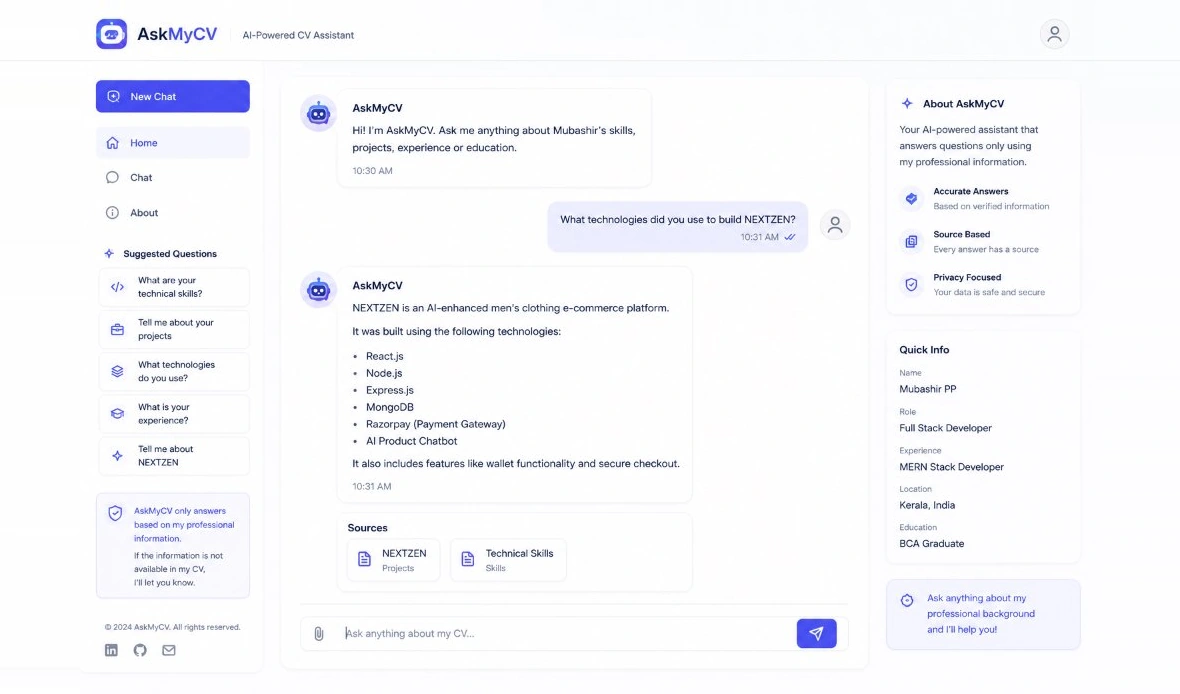
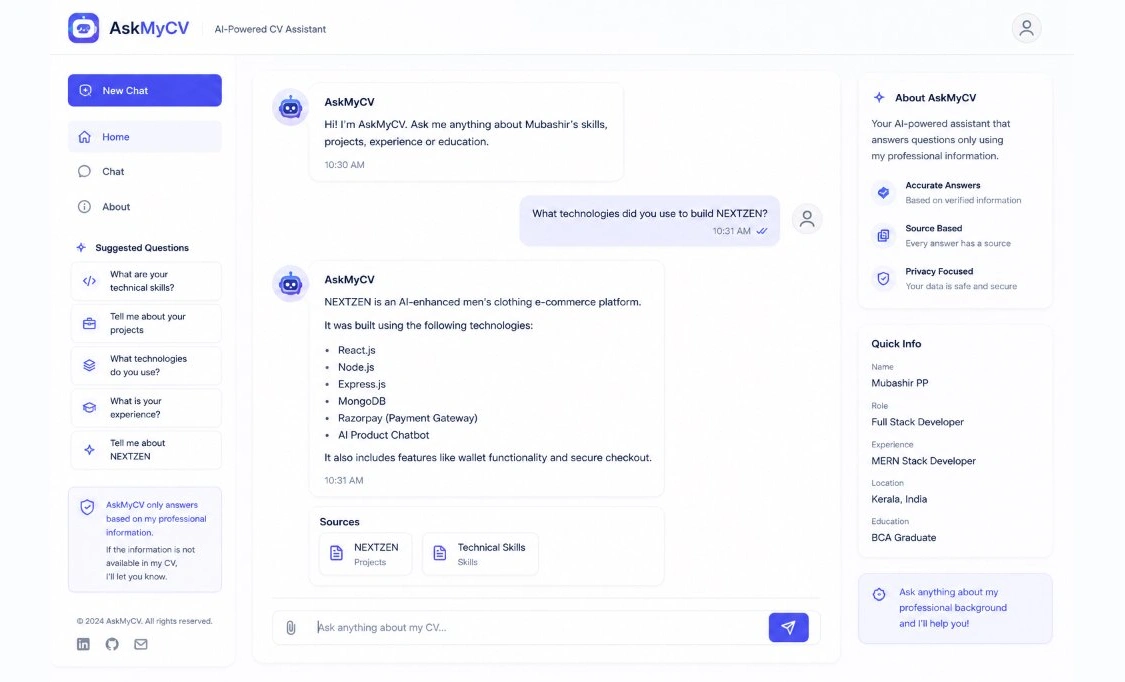
feat: initialize portfolio v2 with components, assets, and layout styling

diff --git a/src/components/ScrollyCanvas.tsx b/src/components/ScrollyCanvas.tsx
@@ -9,9 +9,18 @@ interface ScrollyCanvasProps {
 
 export default function ScrollyCanvas({ heroRef }: ScrollyCanvasProps) {
   const canvasRef = useRef<HTMLCanvasElement>(null);
+  const ctxRef = useRef<CanvasRenderingContext2D | null>(null);
   const imagesRef = useRef<(HTMLImageElement | null)[]>([]);
   const lastDrawnFrameRef = useRef<number>(-1);
   const rafIdRef = useRef<number | null>(null);
+  const layoutRef = useRef({
+    offsetX: 0,
+    offsetY: 0,
+    drawWidth: 0,
+    drawHeight: 0,
+    canvasWidth: 0,
+    canvasHeight: 0,
+  });
   const totalFrames = 120;
 
   // Use the shared heroRef for scroll target
@@ -20,23 +29,21 @@ export default function ScrollyCanvas({ heroRef }: ScrollyCanvasProps) {
     offset: ["start start", "end end"],
   });
 
-  // Physics-based spring smoothing for liquid-smooth canvas scrubbing
+  // Responsive spring synchronized with Lenis inertia for fluid, lag-free scrubbing
   const smoothProgress = useSpring(scrollYProgress, {
-    stiffness: 100,
+    stiffness: 180,
     damping: 28,
+    mass: 0.2,
     restDelta: 0.0001,
   });
 
   const pad = (num: number) => String(num).padStart(3, "0");
 
-  // Helper to draw a specific frame on canvas with object-fit: cover logic
+  // Fast draw using cached context and precomputed cover dimensions
   const drawFrame = (index: number) => {
-    const canvas = canvasRef.current;
-    if (!canvas) return;
-    const ctx = canvas.getContext("2d");
+    const ctx = ctxRef.current;
     if (!ctx) return;
 
-    // Get image or closest loaded fallback to prevent any black/empty frames
     let img = imagesRef.current[index];
     if (!img || !img.complete) {
       for (let offset = 1; offset < totalFrames; offset++) {
@@ -54,46 +61,37 @@ export default function ScrollyCanvas({ heroRef }: ScrollyCanvasProps) {
       if (!img || !img.complete) return;
     }
 
-    const canvasWidth = canvas.width;
-    const canvasHeight = canvas.height;
+    const { offsetX, offsetY, drawWidth, drawHeight, canvasWidth, canvasHeight } = layoutRef.current;
     if (!canvasWidth || !canvasHeight) return;
-
-    const imgWidth = img.naturalWidth || img.width;
-    const imgHeight = img.naturalHeight || img.height;
-    if (!imgWidth || !imgHeight) return;
-
-    const imgRatio = imgWidth / imgHeight;
-    const canvasRatio = canvasWidth / canvasHeight;
-
-    let drawWidth = canvasWidth;
-    let drawHeight = canvasHeight;
-    let offsetX = 0;
-    let offsetY = 0;
-
-    if (canvasRatio > imgRatio) {
-      drawHeight = canvasWidth / imgRatio;
-      offsetY = (canvasHeight - drawHeight) / 2;
-    } else {
-      drawWidth = canvasHeight * imgRatio;
-      offsetX = (canvasWidth - drawWidth) / 2;
-    }
 
     ctx.clearRect(0, 0, canvasWidth, canvasHeight);
     ctx.drawImage(img, offsetX, offsetY, drawWidth, drawHeight);
   };
 
-  // Preload frames with immediate priority on the first 10 frames
+  // Preload frames with background decode to eliminate main-thread decoding jank
   useEffect(() => {
     let active = true;
     const loadedImages: (HTMLImageElement | null)[] = new Array(totalFrames).fill(null);
 
-    const handleImageLoad = (index: number) => {
+    const handleImageLoad = (img: HTMLImageElement, index: number) => {
       if (!active) return;
-      const currentProgress = smoothProgress.get();
-      const currentFrame = Math.max(0, Math.min(totalFrames - 1, Math.round(currentProgress * (totalFrames - 1))));
-      if (index === currentFrame || lastDrawnFrameRef.current === -1) {
-        lastDrawnFrameRef.current = index;
-        drawFrame(index);
+      if (img.decode) {
+        img.decode().catch(() => {}).then(() => {
+          if (!active) return;
+          const currentProgress = smoothProgress.get();
+          const currentFrame = Math.max(0, Math.min(totalFrames - 1, Math.round(currentProgress * (totalFrames - 1))));
+          if (index === currentFrame || lastDrawnFrameRef.current === -1) {
+            lastDrawnFrameRef.current = index;
+            drawFrame(index);
+          }
+        });
+      } else {
+        const currentProgress = smoothProgress.get();
+        const currentFrame = Math.max(0, Math.min(totalFrames - 1, Math.round(currentProgress * (totalFrames - 1))));
+        if (index === currentFrame || lastDrawnFrameRef.current === -1) {
+          lastDrawnFrameRef.current = index;
+          drawFrame(index);
+        }
       }
     };
 
@@ -102,7 +100,7 @@ export default function ScrollyCanvas({ heroRef }: ScrollyCanvasProps) {
     frameZero.src = `/sequence/frame_${pad(0)}_delay-0.066s.webp`;
     frameZero.onload = () => {
       loadedImages[0] = frameZero;
-      handleImageLoad(0);
+      handleImageLoad(frameZero, 0);
     };
     loadedImages[0] = frameZero;
 
@@ -110,7 +108,7 @@ export default function ScrollyCanvas({ heroRef }: ScrollyCanvasProps) {
     for (let i = 1; i < totalFrames; i++) {
       const img = new Image();
       img.src = `/sequence/frame_${pad(i)}_delay-0.066s.webp`;
-      img.onload = () => handleImageLoad(i);
+      img.onload = () => handleImageLoad(img, i);
       loadedImages[i] = img;
     }
 
@@ -121,16 +119,49 @@ export default function ScrollyCanvas({ heroRef }: ScrollyCanvasProps) {
     };
   }, [smoothProgress]);
 
-  // Set up resize handler and initial canvas rendering
+  // Set up resize handler, caching context and cover layout geometry
   useEffect(() => {
     const canvas = canvasRef.current;
     if (!canvas) return;
 
+    ctxRef.current = canvas.getContext("2d", { alpha: true });
+
     const handleResize = () => {
       const rect = canvas.getBoundingClientRect();
-      const dpr = Math.min(window.devicePixelRatio || 1, 2); // Cap at 2 to preserve GPU performance
-      canvas.width = rect.width * dpr;
-      canvas.height = rect.height * dpr;
+      // Cap DPR to 1.5 to match 1080p source sequence resolution and save >50% GPU fill rate
+      const dpr = Math.min(window.devicePixelRatio || 1, 1.5);
+      const canvasWidth = Math.round(rect.width * dpr);
+      const canvasHeight = Math.round(rect.height * dpr);
+
+      canvas.width = canvasWidth;
+      canvas.height = canvasHeight;
+
+      const imgWidth = 1920;
+      const imgHeight = 1080;
+      const imgRatio = imgWidth / imgHeight;
+      const canvasRatio = canvasWidth / canvasHeight;
+
+      let drawWidth = canvasWidth;
+      let drawHeight = canvasHeight;
+      let offsetX = 0;
+      let offsetY = 0;
+
+      if (canvasRatio > imgRatio) {
+        drawHeight = canvasWidth / imgRatio;
+        offsetY = (canvasHeight - drawHeight) / 2;
+      } else {
+        drawWidth = canvasHeight * imgRatio;
+        offsetX = (canvasWidth - drawWidth) / 2;
+      }
+
+      layoutRef.current = {
+        offsetX,
+        offsetY,
+        drawWidth,
+        drawHeight,
+        canvasWidth,
+        canvasHeight,
+      };
 
       const currentProgress = smoothProgress.get();
       const frameIndex = Math.max(0, Math.min(totalFrames - 1, Math.round(currentProgress * (totalFrames - 1))));

diff --git a/src/components/MeshText.tsx b/src/components/MeshText.tsx
@@ -479,6 +479,10 @@ function __OriginkitBase_MeshText(props: any) {
             }
             cursor.x = x
             cursor.y = y
+            if (!animating && !cancelled) {
+                animating = true
+                rafId = requestAnimationFrame(tick)
+            }
         }
         const onLeave = () => {
             cursor.inside = false
@@ -491,8 +495,11 @@ function __OriginkitBase_MeshText(props: any) {
         document.documentElement.addEventListener("pointerleave", onLeave)
 
         // ── Animation loop ──────────────────────────────────────────────
+        let animating = true
         let rafId = 0
         const tick = () => {
+            if (cancelled) return
+
             cursor.vx = cursor.x - cursor.px
             cursor.vy = cursor.y - cursor.py
             const vmag = Math.hypot(cursor.vx, cursor.vy)
@@ -502,6 +509,8 @@ function __OriginkitBase_MeshText(props: any) {
             }
             cursor.px = cursor.x
             cursor.py = cursor.y
+
+            let maxMotion = Math.hypot(cursor.vx, cursor.vy)
 
             // Drag only — mesh vertices pulled along the cursor's motion.
             for (let i = 0; i < vertCount; i++) {
@@ -540,6 +549,9 @@ function __OriginkitBase_MeshText(props: any) {
                 else if (ndy < -1) ndy = -1
                 disp[i2] = ndx
                 disp[i2 + 1] = ndy
+
+                const m = Math.abs(ndx) + Math.abs(ndy) + Math.abs(vx) + Math.abs(vy)
+                if (m > maxMotion) maxMotion = m
             }
 
             gl.bindBuffer(gl.ARRAY_BUFFER, dispBuf)
@@ -578,6 +590,12 @@ function __OriginkitBase_MeshText(props: any) {
 
             gl.bindVertexArray(vao)
             gl.drawElements(gl.TRIANGLES, indexCount, gl.UNSIGNED_INT, 0)
+
+            // Idle sleep: if cursor is inactive/away and mesh vertices have fully settled, pause loop
+            if (!cursor.inside && maxMotion < 0.0001) {
+                animating = false
+                return
+            }
 
             rafId = requestAnimationFrame(tick)
         }

diff --git a/src/components/Masthead.tsx b/src/components/Masthead.tsx
@@ -104,13 +104,13 @@ function edLoadCurve(seed: number, loadS: number): (t: number) => number {
 /** Real document load, 0..1. Images and fonts pull it up; the window load event finishes it. */
 function edRealLoad(): number {
     if (typeof document === "undefined") return 1
-    if (document.readyState === "complete") return 1
+    if (document.readyState === "complete" || document.readyState === "interactive") return 1
     const imgs = document.images
     let done = 0
     for (let i = 0; i < imgs.length; i++) if (imgs[i].complete) done++
     const frac = imgs.length ? done / imgs.length : 1
     const fonts = document.fonts && document.fonts.status === "loaded" ? 1 : 0
-    return Math.min(0.95, 0.15 + 0.6 * frac + 0.2 * fonts)
+    return Math.min(1.0, 0.2 + 0.6 * frac + 0.2 * fonts)
 }
 
 const edClamp = (x: number): number => (x < 0 ? 0 : x > 1 ? 1 : x)
@@ -222,7 +222,7 @@ function useEditorialLoader(
                 // The real load only ever holds the simulated curve back, never pushes it on.
                 const target = onCanvas ? curve(t) : Math.min(curve(t), edRealLoad())
                 progress = target >= 1 ? 1 : Math.min(target, progress + dt * 1.5)
-                if (progress >= 1 && t >= loadS) revealAt = t
+                if ((progress >= 1 || t >= loadS + 1.2) && t >= loadS) revealAt = t
             }
             draw(dt)
             if (revealAt >= 0 && t - revealAt >= revealS) {

diff --git a/src/components/SmoothScroll.tsx b/src/components/SmoothScroll.tsx
@@ -1,0 +1,36 @@
+"use client";
+
+import { useEffect } from "react";
+import Lenis from "lenis";
+
+export default function SmoothScroll() {
+  useEffect(() => {
+    // Only initialize smooth scroll on desktop / non-reduced motion devices
+    const prefersReducedMotion = window.matchMedia("(prefers-reduced-motion: reduce)").matches;
+    if (prefersReducedMotion) return;
+
+    const lenis = new Lenis({
+      duration: 1.1,
+      easing: (t) => Math.min(1, 1.001 - Math.pow(2, -10 * t)),
+      orientation: "vertical",
+      gestureOrientation: "vertical",
+      smoothWheel: true,
+      wheelMultiplier: 1.0,
+      touchMultiplier: 1.5,
+    });
+
+    let rafId: number;
+    function raf(time: number) {
+      lenis.raf(time);
+      rafId = requestAnimationFrame(raf);
+    }
+    rafId = requestAnimationFrame(raf);
+
+    return () => {
+      cancelAnimationFrame(rafId);
+      lenis.destroy();
+    };
+  }, []);
+
+  return null;
+}

diff --git a/src/app/layout.tsx b/src/app/layout.tsx
@@ -1,6 +1,7 @@
 import type { Metadata } from "next";
 import { Sora, Bebas_Neue } from "next/font/google";
 import "./globals.css";
+import SmoothScroll from "@/components/SmoothScroll";
 
 const sora = Sora({
   subsets: ["latin"],
@@ -170,6 +171,7 @@ export default function RootLayout({
       <body
         className={`${sora.variable} ${bebasNeue.variable} font-sans bg-[#0a0a0a] text-white antialiased`}
       >
+        <SmoothScroll />
         <script
           type="application/ld+json"
           id="schema-markup"

diff --git a/src/components/Overlay.tsx b/src/components/Overlay.tsx
@@ -16,10 +16,11 @@ export default function Overlay({ heroRef }: OverlayProps) {
     offset: ["start start", "end end"],
   });
 
-  // Physics-based spring smoothing for overlay transitions
+  // Physics-based spring smoothing synchronized with ScrollyCanvas
   const smoothProgress = useSpring(scrollYProgress, {
-    stiffness: 90,
-    damping: 26,
+    stiffness: 180,
+    damping: 28,
+    mass: 0.2,
     restDelta: 0.0001,
   });
 

diff --git a/src/app/globals.css b/src/app/globals.css
@@ -143,3 +143,24 @@ body {
 .word {
   display: inline-block;
 }
+
+/* Lenis Smooth Scroll Rules */
+html.lenis, html.lenis body {
+  height: auto;
+}
+
+.lenis.lenis-smooth {
+  scroll-behavior: auto !important;
+}
+
+.lenis.lenis-smooth [data-lenis-prevent] {
+  overscroll-behavior: contain;
+}
+
+.lenis.lenis-stopped {
+  overflow: hidden;
+}
+
+.lenis.lenis-smooth iframe {
+  pointer-events: none;
+}

diff --git a/src/components/Projects.tsx b/src/components/Projects.tsx
@@ -261,7 +261,7 @@ export default function Projects() {
                     alt={activeProject.title}
                     width={900}
                     height={506}
-                    className="object-cover w-full h-full"
+                    className="object-contain w-full h-full"
                     priority
                   />
                 </div>

diff --git a/src/components/GrainyCarousel.tsx b/src/components/GrainyCarousel.tsx
@@ -393,6 +393,7 @@ export default function GrainyCarousel(props: GrainyCarouselProps) {
     const gl = canvas.getContext("webgl", {
       alpha: true,
       premultipliedAlpha: false,
+      preserveDrawingBuffer: true,
     });
 
     let prog: WebGLProgram | null = null;
